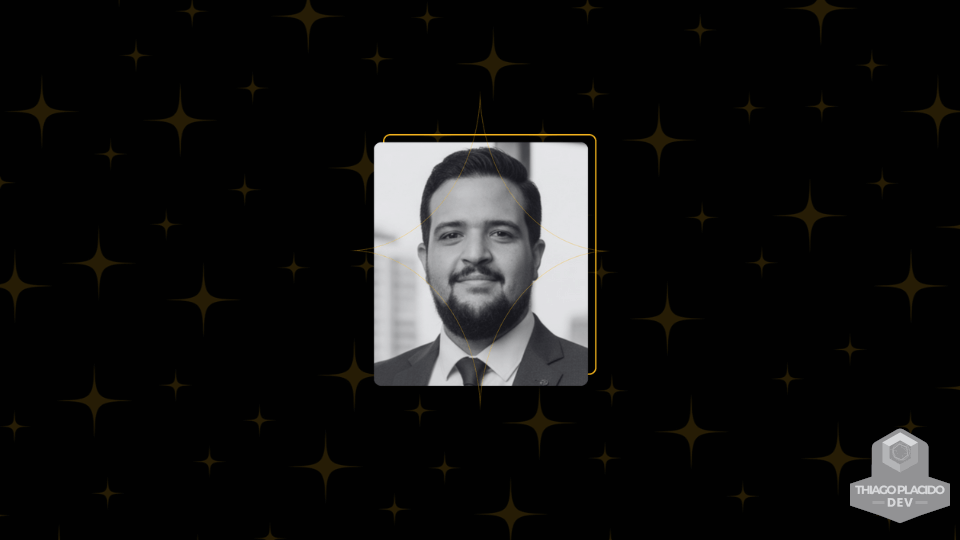
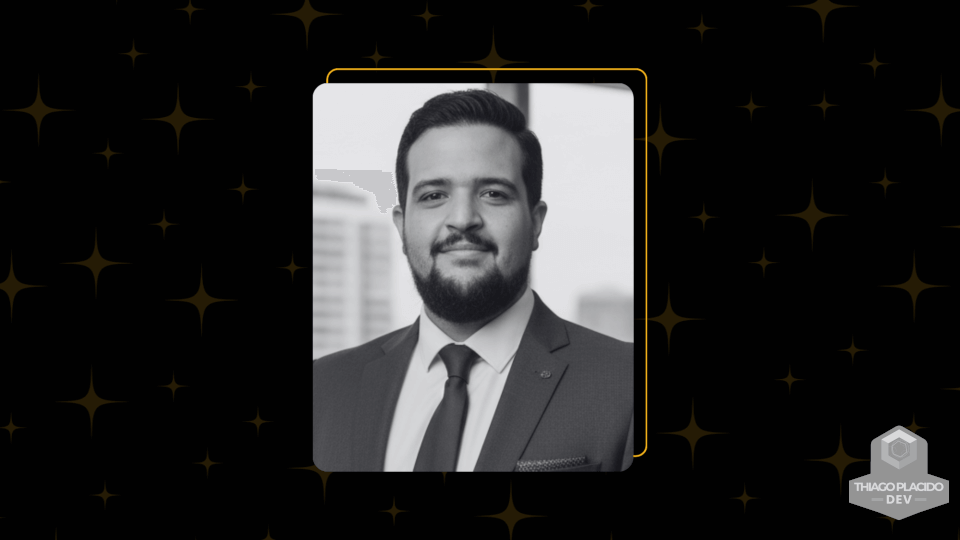
Commit v1.0a

diff --git a/portifolio.html b/portifolio.html
@@ -156,7 +156,7 @@
             <button class="btn btn-primary btn-sm" data-modal-target="modal-identidade-visual">
               Maiores informações
             </button>
-            <a class="btn btn-outline btn-sm" href="assets\portifolio\case3.png" target="_blank">
+            <a class="btn btn-outline btn-sm" href="assets/portifolio/case-3b.png" target="_blank">
               Ver logo
             </a>
           </div>
